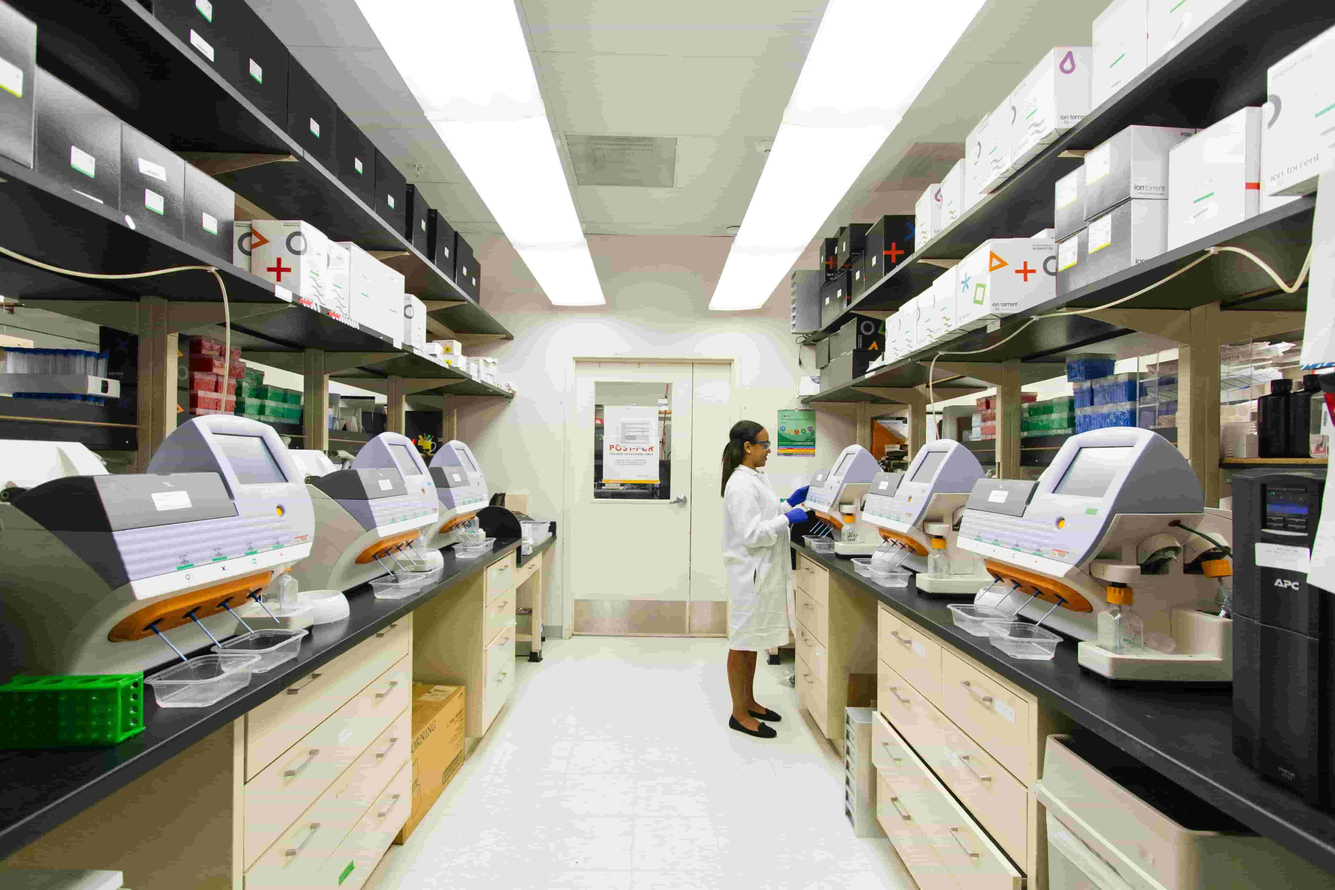
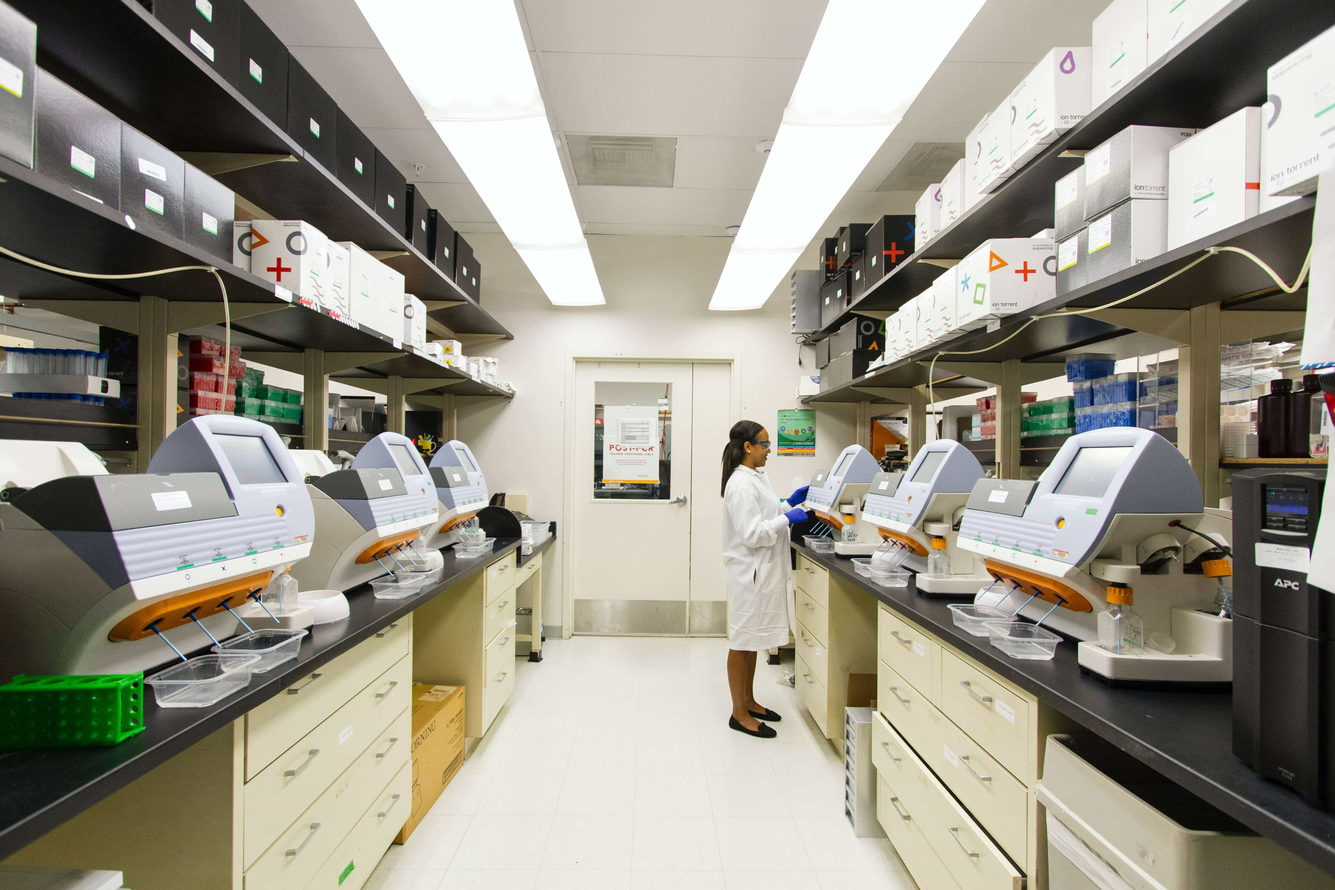
Adding better quality pics in the carousel

diff --git a/index.html b/index.html
@@ -66,7 +66,7 @@
       <div>
          <div id="carouselExampleControls" class="carousel slide" data-ride="carousel">
             <div class="carousel-inner">
-               <div class="carousel-item active">
+               <div class="assets/images/index/lab5.jpg">
                   <img src="assets/images/index/lab5.jpg" class="d-block w-100 img-resize" alt="laboratory">
                </div>
                <div class="carousel-item">
